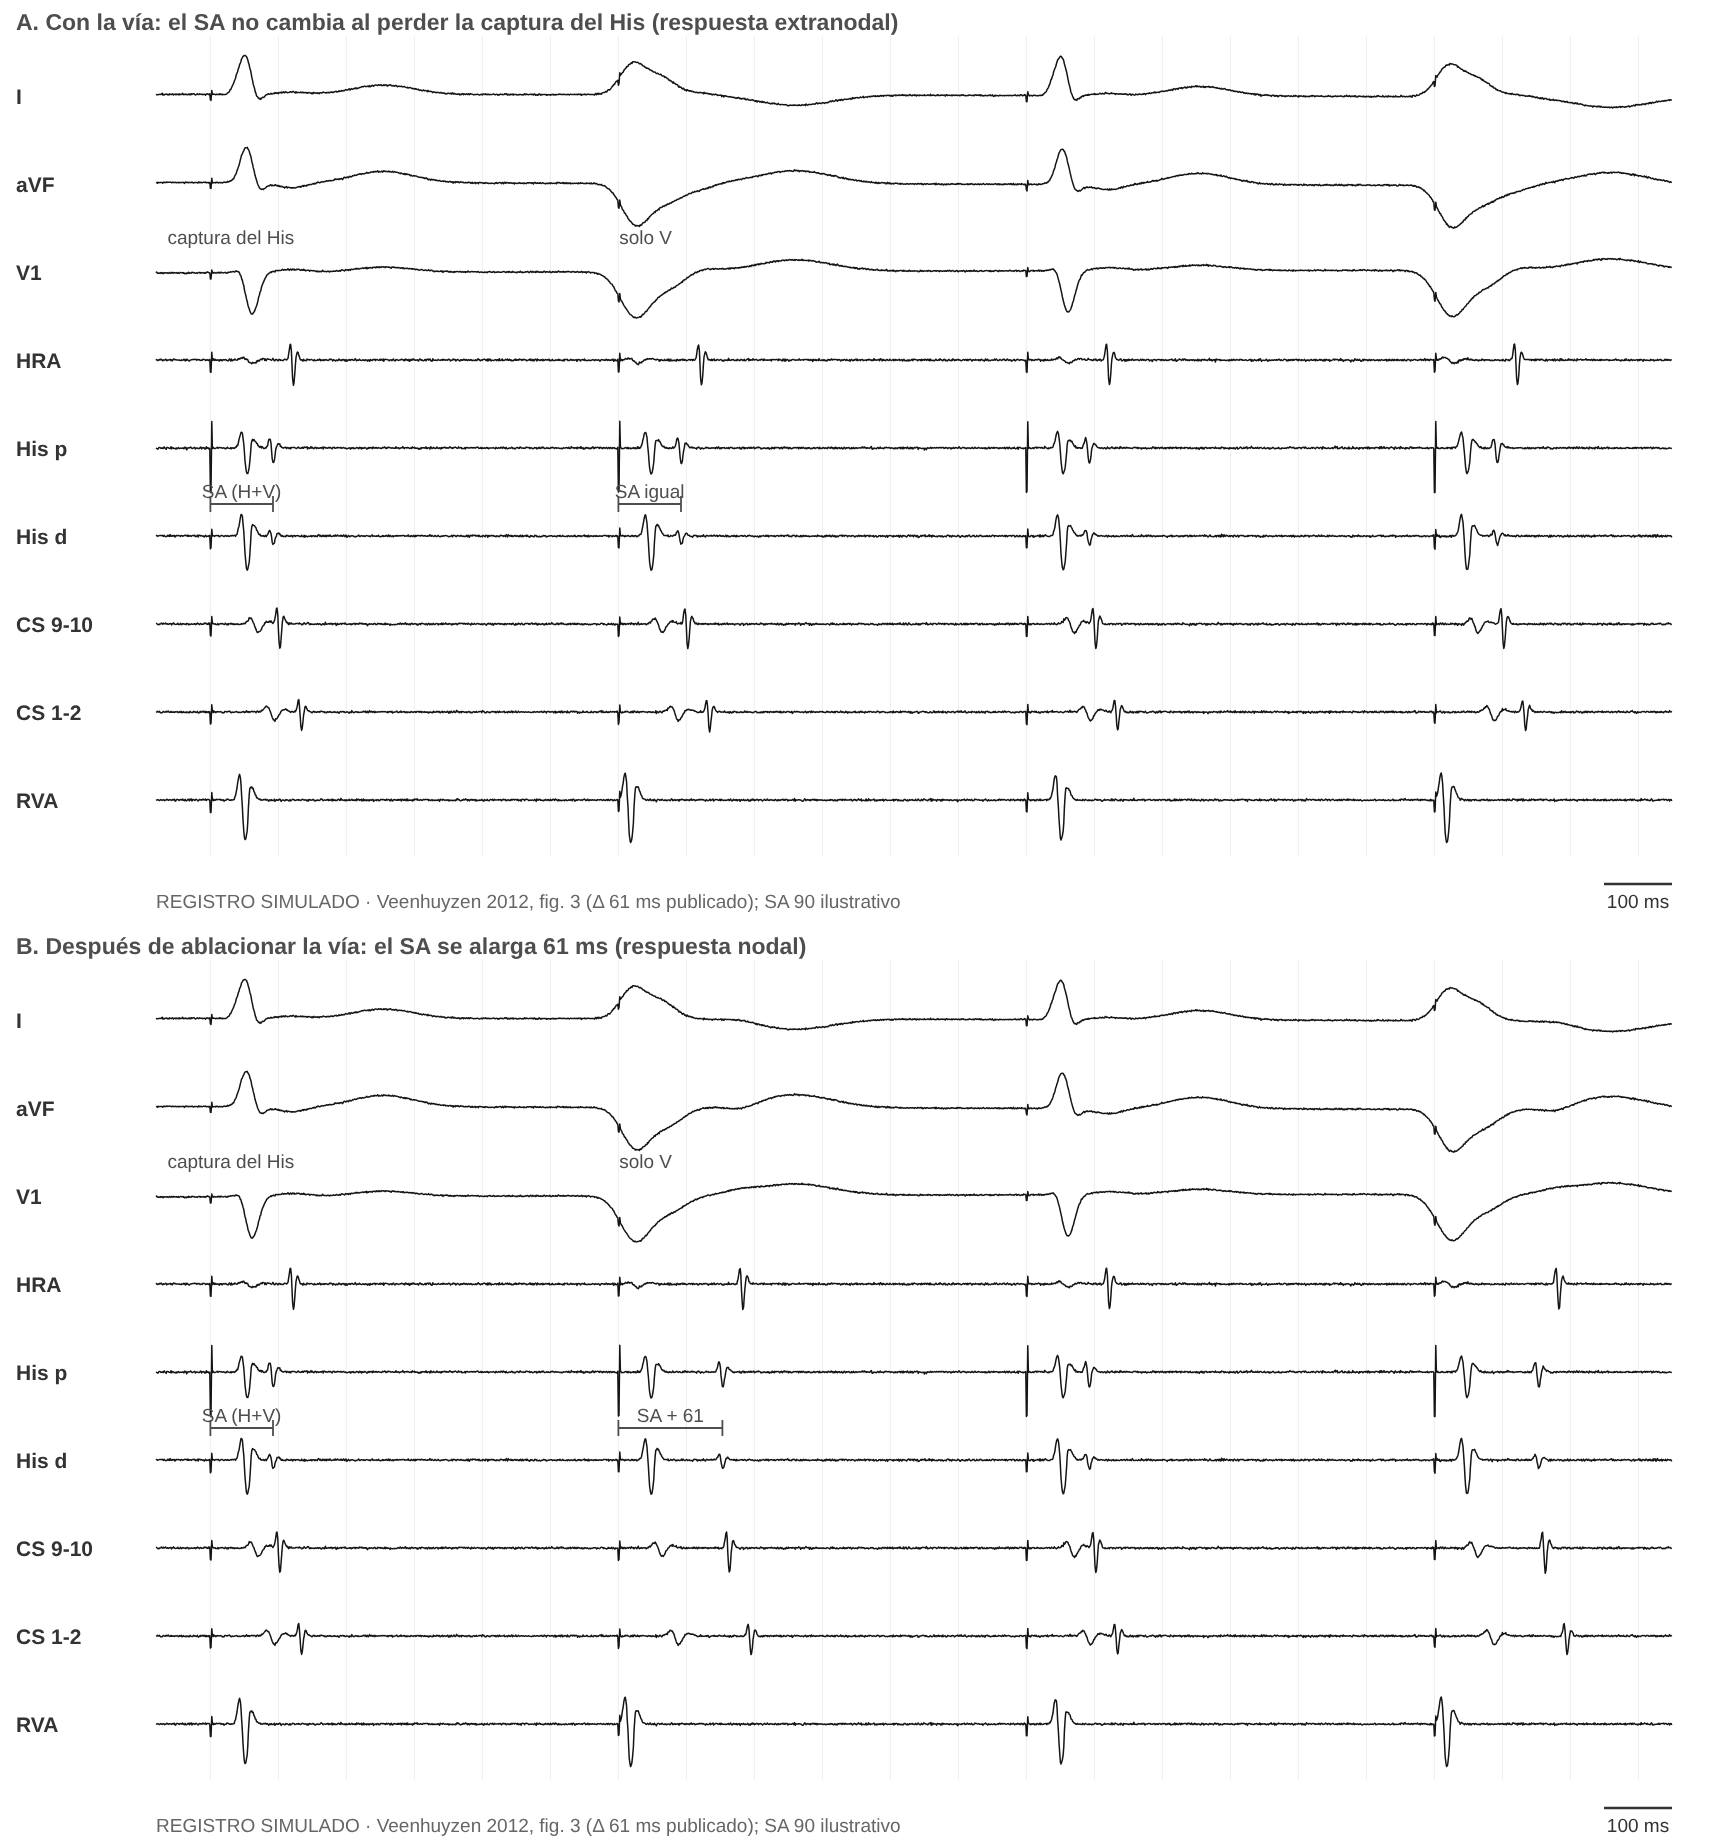
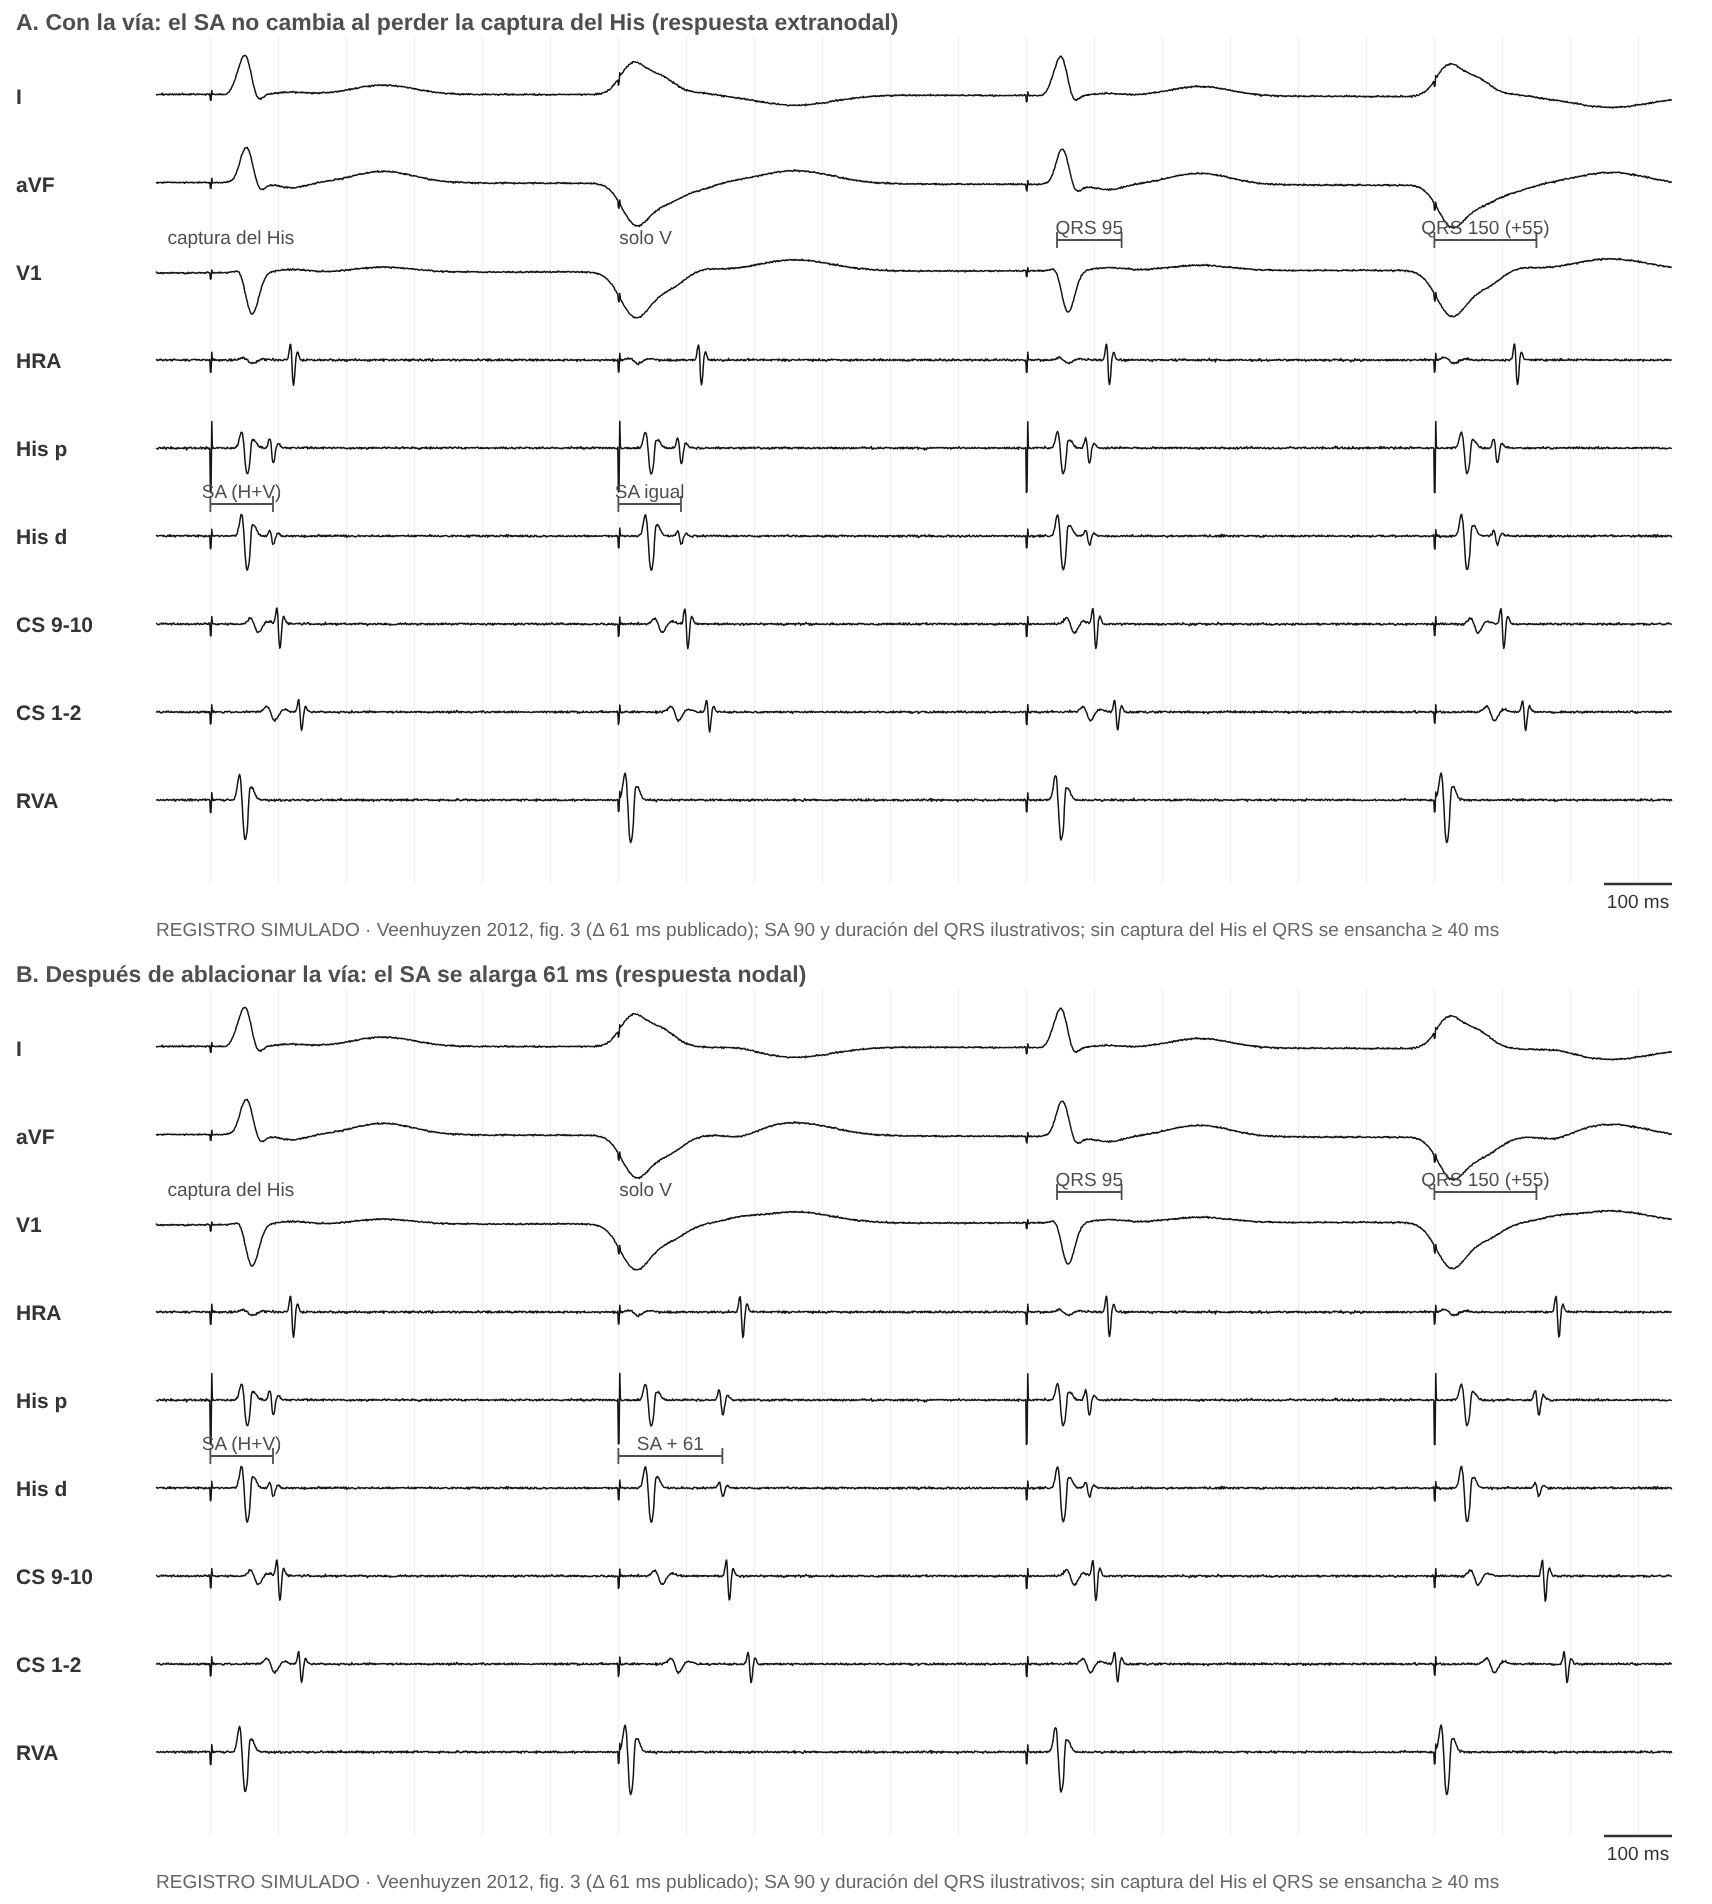
Para-Hisiana: criterio de ensanchamiento del QRS (≥ 40 ms) en la ficha y en el registro
Claude-Session: https://claude.ai/code/session_01Pw5rjt62KK5LeJZoEyFiaM

diff --git a/index.html b/index.html
@@ -575,7 +575,7 @@ const M = {
 
   parahis: { g: 'V', t: 'Estimulación para-Hisiana', s: 'En ritmo sinusal o como encarrilamiento para-Hisiano',
     para: 'Compara la conducción retrógrada con captura del His-rama derecha y sin ella. Por el nodo, perder la captura del His alarga el SA; por una vía septal, no.',
-    como: ['Ubicá el catéter en la región del His o la rama derecha proximal.', 'Con salida alta capturás His + miocardio: QRS angosto, SH corto.', 'Bajá la salida hasta capturar solo miocardio: QRS ancho y aparece el His retrógrado.', 'Compará el SA y la secuencia auricular en los dos tipos de latido.', 'Durante la TSV (encarrilamiento para-Hisiano): sin captura del His el QRS se ensancha ≥ 40 ms respecto del de la TSV.'],
+    como: ['Ubicá el catéter en la región del His o la rama derecha proximal.', 'Con salida alta capturás His + miocardio: QRS angosto, SH corto.', 'Bajá la salida hasta capturar solo miocardio: QRS ancho y aparece el His retrógrado.', '<b>Cómo saber que perdiste la captura del His:</b> el QRS se ensancha en forma evidente, en la práctica <b>≥ 40 ms</b> más que con captura (el mismo corte de Pérez-Rodón 2008 para el encarrilamiento para-Hisiano), cambia a morfología de BRI y el estímulo-QRS se acorta porque el QRS arranca con la espiga. Si el ensanchamiento es menor, la captura del His puede ser parcial y la maniobra no es interpretable.', 'Compará el SA y la secuencia auricular en los dos tipos de latido.', 'Durante la TSV (encarrilamiento para-Hisiano): sin captura del His el QRS se ensancha ≥ 40 ms respecto del de la TSV.'],
     interp: [
       ['Al perder la captura del His: el SA se alarga (≈ lo que se alarga el SH), el HA y la secuencia no cambian', 'Conducción solo por el nodo', 'hirao96 veen12'],
       ['El SA no cambia (el HA se acorta) y la secuencia tampoco', 'Conducción solo por una vía accesoria', 'hirao96 veen12'],

diff --git a/sw.js b/sw.js
@@ -1,6 +1,6 @@
 // Permite instalar la app y abrirla sin conexión. Primero la red (siempre lo último publicado); si no hay, la copia.
 // Si cambiás un archivo, subí CACHE_VERSION.
-const CACHE_VERSION = 'mef-v50';
+const CACHE_VERSION = 'mef-v51';
 const ARCHIVOS = ['./', './index.html', './manifest.json', './iconos/icon-192.png', './iconos/icon-512.png'];
 self.addEventListener('install', e => e.waitUntil(caches.open(CACHE_VERSION).then(c => c.addAll(ARCHIVOS)).then(() => self.skipWaiting())));
 self.addEventListener('activate', e => e.waitUntil(caches.keys().then(ks => Promise.all(ks.filter(k => k !== CACHE_VERSION).map(k => caches.delete(k)))).then(() => self.clients.claim())));

diff --git a/herramientas/simulador/cases3.py b/herramientas/simulador/cases3.py
@@ -62,9 +62,10 @@ def parahis(sa_nc, title, lab):
     beats = [(s + HV if c else s, 'n' if c else 'pa') for s, c in zip(sp, cap)]
     A = [s + (90 if c else sa_nc) for s, c in zip(sp, cap)]
     return dict(win=(-80, 2150), pxms=0.34, title=title, channels=['HRA', 'His p', 'His d', 'CS 9-10', 'CS 1-2', 'RVA'],
-        src='Veenhuyzen 2012, fig. 3 (Δ 61 ms publicado); SA 90 ilustrativo', spikes=sp, pace_ch='His p',
+        src='Veenhuyzen 2012, fig. 3 (Δ 61 ms publicado); SA 90 y duración del QRS ilustrativos; sin captura del His el QRS se ensancha ≥ 40 ms', spikes=sp, pace_ch='His p',
         beats=beats, atr=[(a, 'conc_his', -1) for a in A],
-        cal=[(sp[0], A[0] + 2, 'His d', 'SA (H+V)'), (sp[1], A[1] + 2, 'His d', lab)],
+        cal=[(sp[0], A[0] + 2, 'His d', 'SA (H+V)'), (sp[1], A[1] + 2, 'His d', lab),
+             (sp[2] + HV, sp[2] + HV + 95, 'V1', 'QRS 95'), (sp[3], sp[3] + 150, 'V1', 'QRS 150 (+55)')],
         marks=[(sp[0] + 30, 'V1', 'captura del His'), (sp[1] + 40, 'V1', 'solo V')])
 S['parahis_a'] = parahis(90, 'A. Con la vía: el SA no cambia al perder la captura del His (respuesta extranodal)', 'SA igual')
 S['parahis_b'] = parahis(151, 'B. Después de ablacionar la vía: el SA se alarga 61 ms (respuesta nodal)', 'SA + 61')
